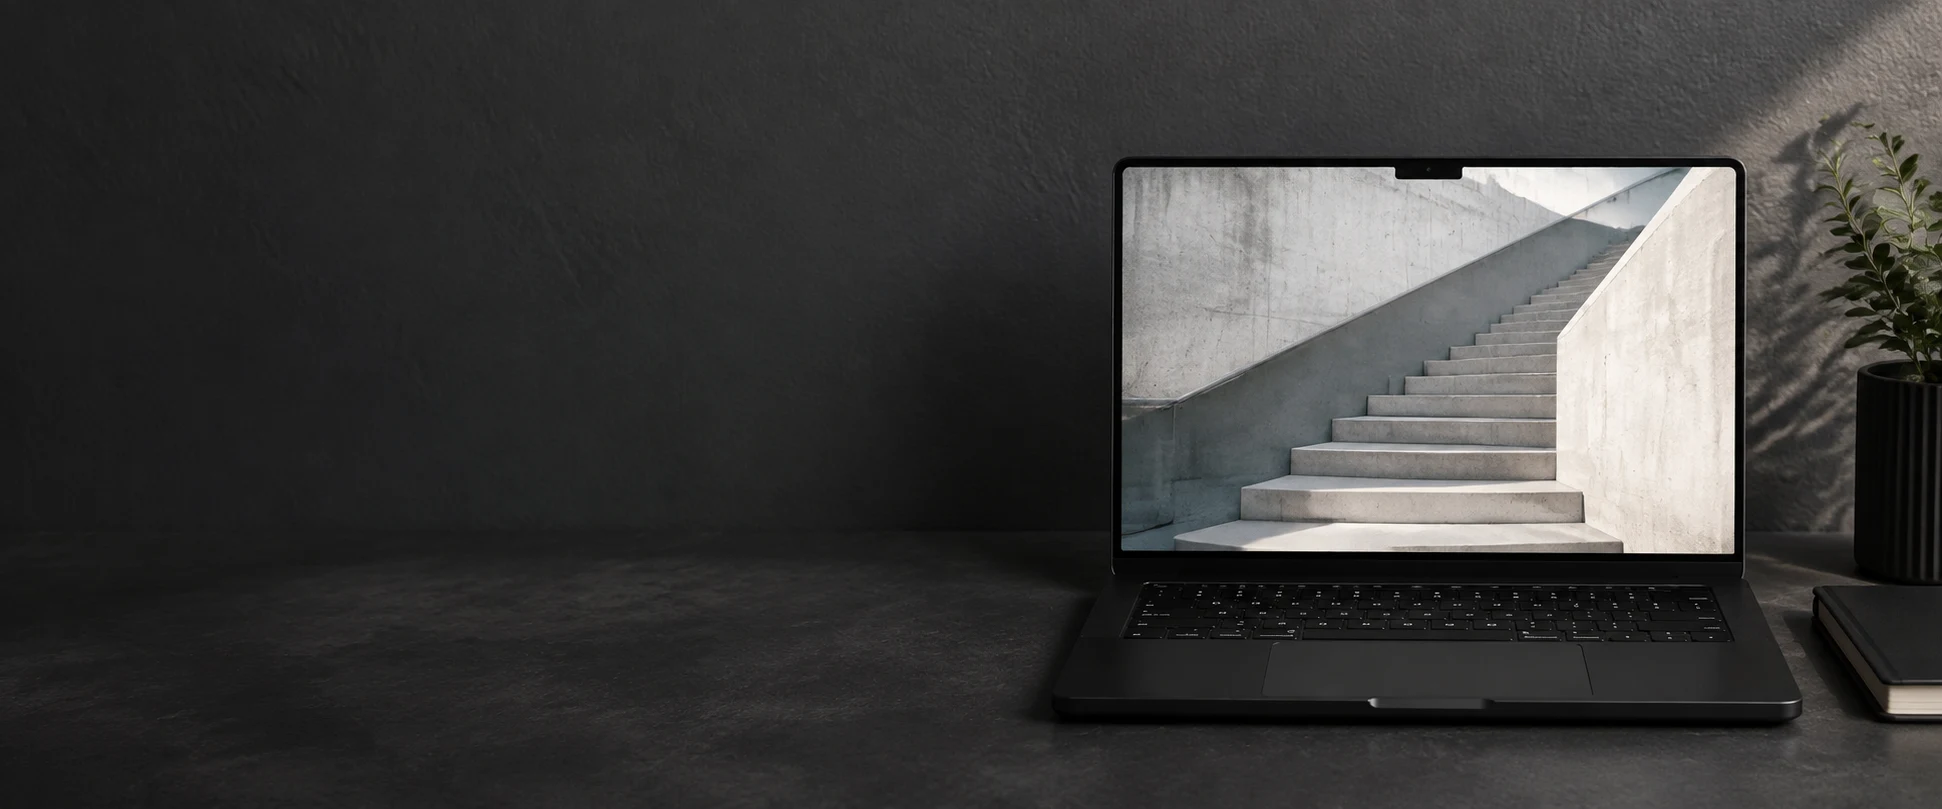
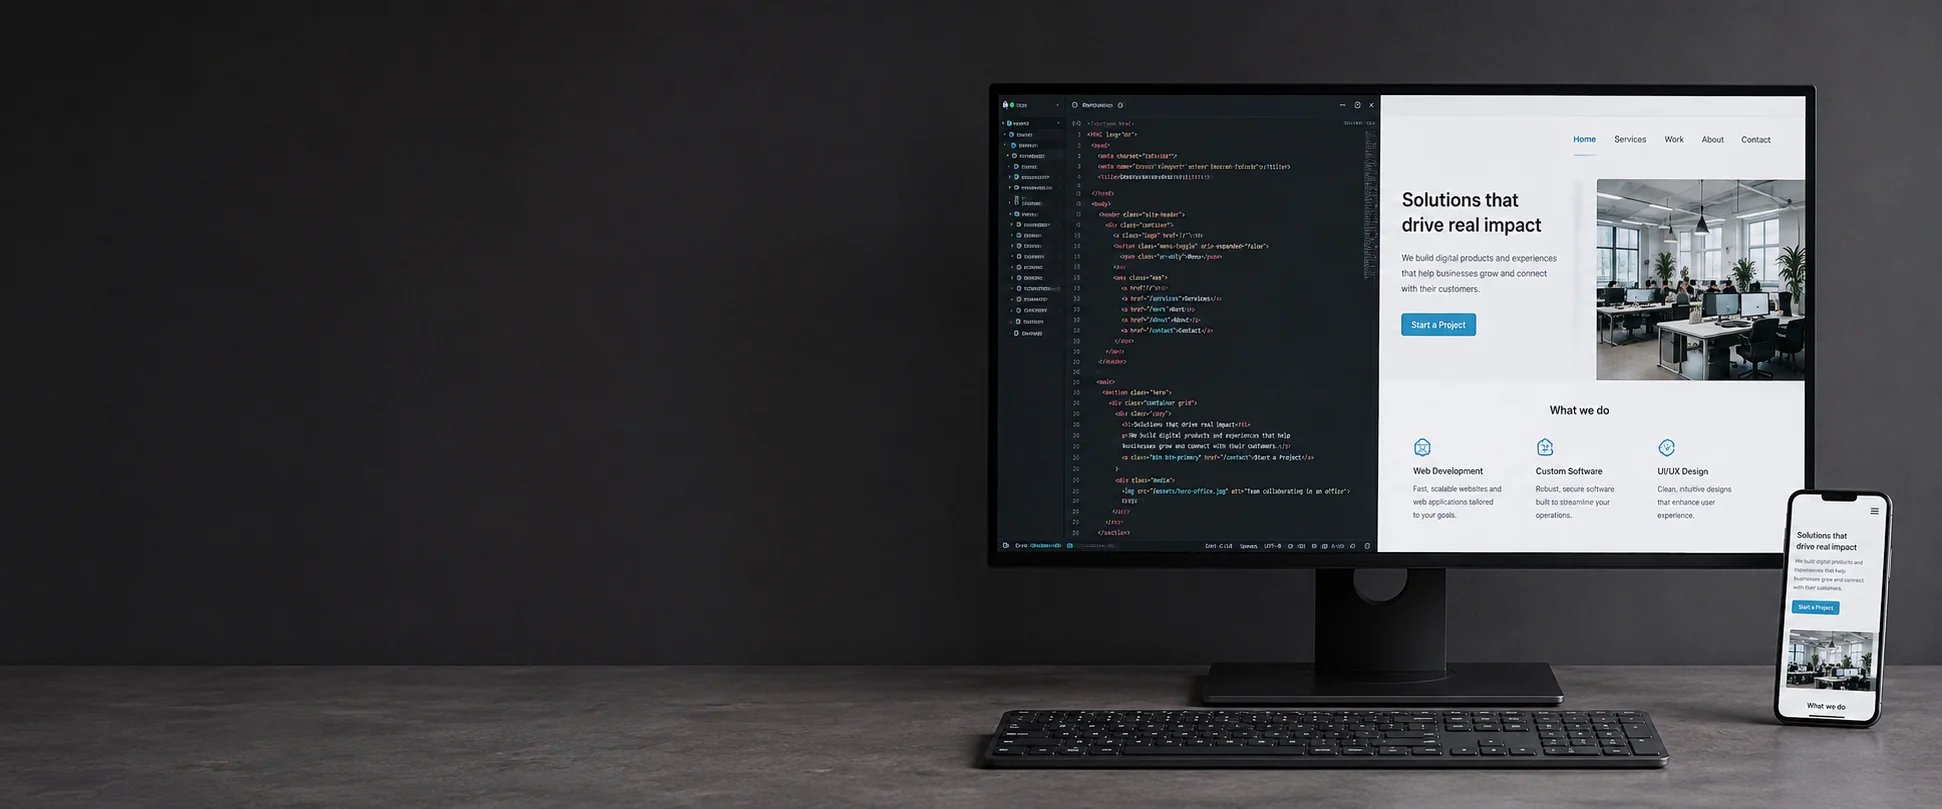
Substitui foto do hero por ambiente de desenvolvimento web

diff --git a/stitch-redesign.css b/stitch-redesign.css
@@ -49,7 +49,7 @@ header .nav-cta a:hover { background: #8ceaff; color: #062e38; }
 .section-sub { max-width: 720px; margin-top: 16px; }
 .split-heading { display: grid; grid-template-columns: 1fr 1fr; gap: 80px; align-items: end; margin-bottom: 42px; }
 .split-heading > p { max-width: 510px; }
-.hero { position: relative; padding: 66px 0 72px; min-height: 580px; background: #28292b url('studio-wide.webp') center right / cover no-repeat; color: white; }
+.hero { position: relative; padding: 66px 0 72px; min-height: 580px; background: #28292b url('studio-wide.webp?v=development') center right / cover no-repeat; color: white; }
 .hero-content { max-width: 580px; }
 .hero .eyebrow { color: #a5edf7; }
 .hero h1 { font-size: 58px; max-width: 580px; line-height: 1.12; }

diff --git a/design-qa.md b/design-qa.md
@@ -19,17 +19,18 @@ The security scanner is a regression check, not a claim of immunity to attacks.
 `../bytestorm-design-final/branch/pages/`.
 The working website retains its own routes and API handlers.
 
-Production opening asset: `studio-wide.webp` (1942 x 809, 98,424 bytes).
-Generated with the built-in image_gen tool, then converted to WebP without
-changing its composition. The generated source remains under the Codex image
-output directory. Original logos/icons were not altered.
+Production opening asset: `studio-wide.webp` (1942 x 809, 82,922 bytes).
+Replaced on 2026-09-04 at the user's request: the laptop/staircase subject was
+not relevant to the services. Only the hero image and its cache key changed.
+Generated with the built-in image_gen tool, then encoded as WebP without
+changing the composition. The generated source remains under the Codex image
+output directory. Original logos/icons and all page behavior were not altered.
 
 Image prompt:
-Create one refined photographic website background asset for ByteStorm Tech, a
-Brazilian independent web development and automation studio. Ultra-wide landscape.
-The left 55% is uninterrupted naturally lit charcoal plaster wall and dark desk,
-quiet negative space for HTML text. On the right, a black laptop fully in frame
-with a crisp architectural photograph of pale concrete stairs on its screen.
-No text, logos, fake headlines, code, charts, people, neon, particles or dashboards.
-Restrained natural daylight, legible materials and delicate shadows.
-Only the photograph, no website panels, navigation, cards or buttons.
+Use case: photorealistic-natural.
+Asset type: replacement wide website hero background, aspect ratio 2.4:1.
+Primary request: replace an irrelevant laptop-with-staircase photo with a concrete, tasteful visual of website and software development for ByteStorm Tech. Generate a NEW photographic image, NOT a whole website.
+Scene: refined real software development desk against a matte charcoal wall (#28292b). On the RIGHT half of the image, a single thin black DESKTOP monitor with a stand, a simple keyboard on the desk, and a smartphone standing next to the monitor. No laptop. The monitor's screen visibly shows a split workspace: a code editor with neatly indented small cyan/white/amber syntax on the left, and a clean responsive business website preview with white background, cyan accent, simple typography and a rectangular photograph on the right. The smartphone displays the same responsive website. This is an illustrative development workspace, not a branded product screenshot or a claim of a delivered client project. Small code and website content should be realistic, discreet and not the focal headline. Screen UI stays inside the devices, no floating UI.
+Composition: wide landscape banner. Reserve the LEFT 53 percent as entirely clear matte charcoal wall for the existing webpage's white headline; no objects, no lights, no baked-in text on that area. Monitor occupies the rightmost 40 percent with its full screen visible, facing camera, slight natural perspective. The desk surface lies along bottom 15 percent, use restrained neutral textures. Keep monitor and phone readable at smaller display size.
+Lighting: natural soft side light, neutral graphite desk/wall, clear crisp screens, physically realistic, professional editorial photography, no heavy haze.
+Avoid: stairs, architecture scenes on screens, laptop, hands, people, logos, watermarks, headings or text outside devices, neon lighting, holograms, glowing orbs, charts claiming metrics, glass cards, gratuitous futuristic effects.

diff --git a/DESIGN.md b/DESIGN.md
@@ -24,6 +24,9 @@ Legacy `styles.css` and `extension-privacy.css` remain in the repository for
 historical compatibility but are no longer loaded by public pages.
 
 ## Identity
+The home hero photo depicts website development on a desktop monitor and phone.
+Do not restore the laptop/staircase photo; the user rejected its unclear relevance.
+
 Graphite header/footer, white and cool gray reading surfaces, cyan primary
 actions, dark cyan text links. Product icon colors stay intact. No decorative
 terminal windows, invented operational dashboards, social-proof badges,
